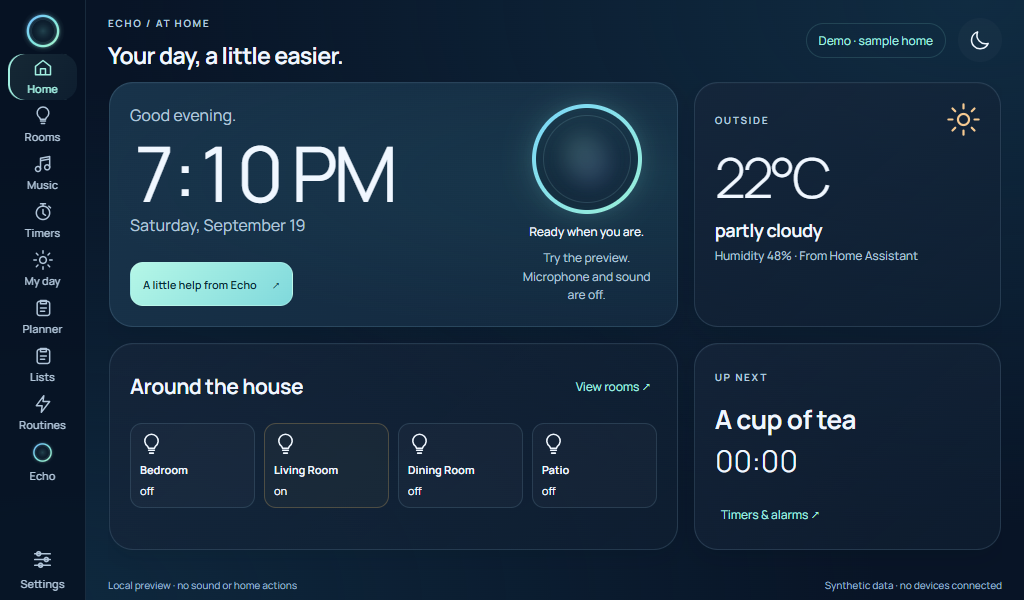
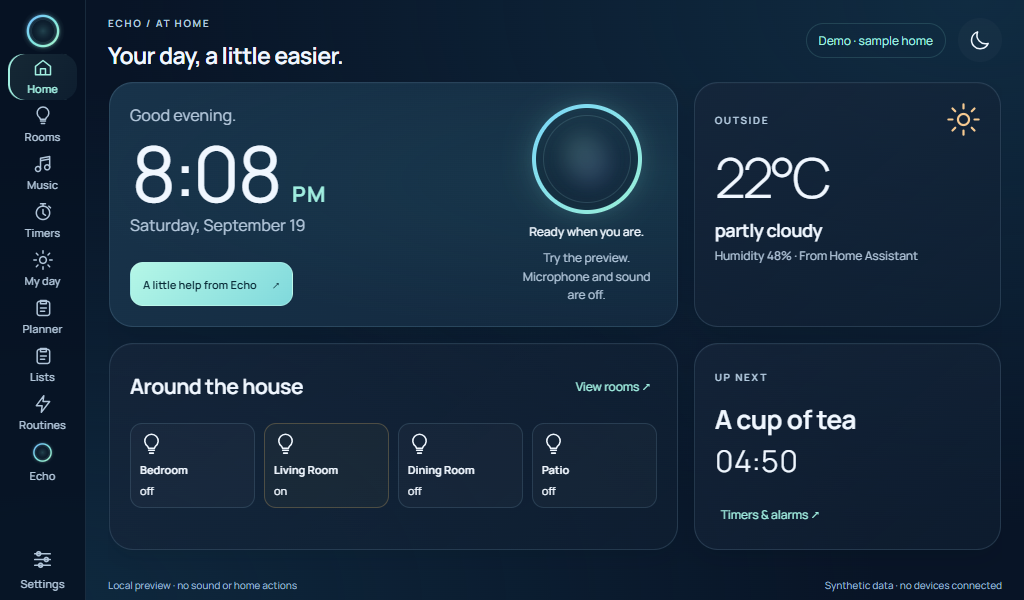
Refine display clock typography and date spacing

diff --git a/web/display/display.js b/web/display/display.js
@@ -220,9 +220,28 @@ $('photo-files').onchange = event => { clearPhotos(); const files = [...event.ta
 $('clear-photos').onclick = () => { clearPhotos(); toast('Ambient photos cleared.'); };
 for (const type of ['pointerdown','keydown','touchstart']) document.addEventListener(type, () => lastInput = Date.now(), {passive:true});
 document.addEventListener('keydown', event => { if (!$('ambient').hidden) { if (event.key === 'Escape') ambient(false); if (event.key === 'Tab') { event.preventDefault(); $('wake-screen').focus(); } } });
+function renderClock(element, formatter, now) {
+  const label = formatter.format(now);
+  if (element.getAttribute('aria-label') === label) return;
+  const parts = formatter.formatToParts(now), period = parts.find(part => part.type === 'dayPeriod');
+  const digits = document.createElement('span');
+  digits.className = 'clock-digits';
+  digits.textContent = parts.filter(part => part.type !== 'dayPeriod').map(part => part.value).join('').trim();
+  digits.setAttribute('aria-hidden', 'true');
+  element.setAttribute('role', 'timer');
+  element.setAttribute('aria-label', label);
+  element.replaceChildren(digits);
+  if (period) {
+    const marker = document.createElement('span');
+    marker.className = 'clock-period'; marker.textContent = period.value;
+    marker.setAttribute('aria-hidden', 'true');
+    if (parts.indexOf(period) < parts.findIndex(part => part.type === 'hour')) element.prepend(marker);
+    else element.append(marker);
+  }
+}
 function tick() {
-  const now = new Date(), time = now.toLocaleTimeString([], {hour:'numeric',minute:'2-digit',hour12:!preferences.clock24}), date = now.toLocaleDateString([], {weekday:'long',month:'long',day:'numeric'});
-  $('home-clock').textContent = time; $('ambient-clock').textContent = time; $('home-date').textContent = date; $('ambient-date').textContent = date;
+  const now = new Date(), formatter = new Intl.DateTimeFormat([], {hour:'numeric',minute:'2-digit',hour12:!preferences.clock24}), date = now.toLocaleDateString([], {weekday:'long',month:'long',day:'numeric'});
+  renderClock($('home-clock'), formatter, now); renderClock($('ambient-clock'), formatter, now); $('home-date').textContent = date; $('ambient-date').textContent = date;
   $('greeting').textContent = now.getHours() < 12 ? 'Good morning.' : now.getHours() < 18 ? 'Good afternoon.' : 'Good evening.';
   $('ambient').classList.toggle('dim', preferences.dim);
   if (preferences.idle && Date.now() - lastInput > preferences.idle * 1000 && !chatAbort && !displayCaptureBusy && !busy && !document.querySelector('dialog[open]') && $('ambient').hidden) ambient(true);

diff --git a/web/display/polish.css b/web/display/polish.css
@@ -43,7 +43,15 @@ button:focus-visible, a:focus-visible, input:focus-visible, select:focus-visible
 .wake-phrases small, .voice-volume-label, .echo-controls .check-label { font-size: 12px; }
 .stepper button[data-speaker=mute], .stepper button[data-speaker=unmute] { font-size: 12px; }
 .status-pill { color: #c1d8e9; border-color: #a0d7ef30; font-size: 12px; }
-.big-clock { font-weight: 400; letter-spacing: -4px; }
+.big-clock { font-weight: 400; letter-spacing: -4px; display: flex; align-items: baseline; gap: .16em; white-space: nowrap; }
+.clock-period { font-size: .28em; font-weight: 650; letter-spacing: .06em; line-height: 1; text-transform: uppercase; color: var(--mint); }
+.ambient-content { width: min(960px, calc(100% - 32px)); }
+.ambient-content .big-clock {
+  justify-content: center; font-size: clamp(64px, 17vw, 180px);
+  font-weight: 400; line-height: 1.15; letter-spacing: -.035em; margin: 28px 0 24px;
+}
+.ambient-content .clock-period { font-size: clamp(18px, 3vw, 30px); }
+.ambient-content p { margin-bottom: 24px; font-size: clamp(18px, 2.2vw, 24px); }
 .hero { background: radial-gradient(ellipse at 100% 40%, #31858e24, transparent 75%), linear-gradient(120deg, #18334a, #12273d); }
 .orb {
   --ring-a: #77d5fb;

diff --git a/docs/DISPLAY_DESIGN.md b/docs/DISPLAY_DESIGN.md
@@ -14,6 +14,9 @@ reserved for supporting information, not primary actions.
 - Blue for listening, lavender for thinking, mint for speaking, amber for mute,
   and slate for a lost connection. Status text supplies the same information.
 - Visible keyboard focus and reduced-motion support.
+- A large, steady clock with a smaller mint AM/PM marker and room for the date.
+  Both home and ambient clocks respect the saved 12/24-hour choice; screen
+  readers receive the complete localized time.
 
 The display styling is in `web/display/polish.css`. The bundled font's original
 [license and source notice](../web/fonts/README.md) travel with the project;
@@ -22,6 +25,8 @@ loading the interface does not contact a font service.
 ![Home at 1024 × 600, with synthetic household data](images/display-home.png)
 
 ![Conversation at 1024 × 600, with synthetic messages](images/display-echo.png)
+
+![Ambient clock with separate day-period marker, using synthetic data](images/display-ambient.png)
 
 ## Avoiding unnecessary scaling
 
@@ -48,3 +53,8 @@ the native listening controls. It is deployed on the Pi and its screen was
 captured after the kiosk restart. The gallery above uses synthetic data only.
 Physical screen clarity, touch calibration and microphone/speaker acceptance
 remain separate checks; screenshots cannot establish those properties.
+
+The live idle-screen capture exposed an oversized day-period suffix crowding
+the date. The clock now separates that suffix from the digits, keeps its edges
+unscaled, and leaves an explicit gap above the date. Focused browser checks
+cover 12/24-hour switching, date separation, and phone-width layout.
